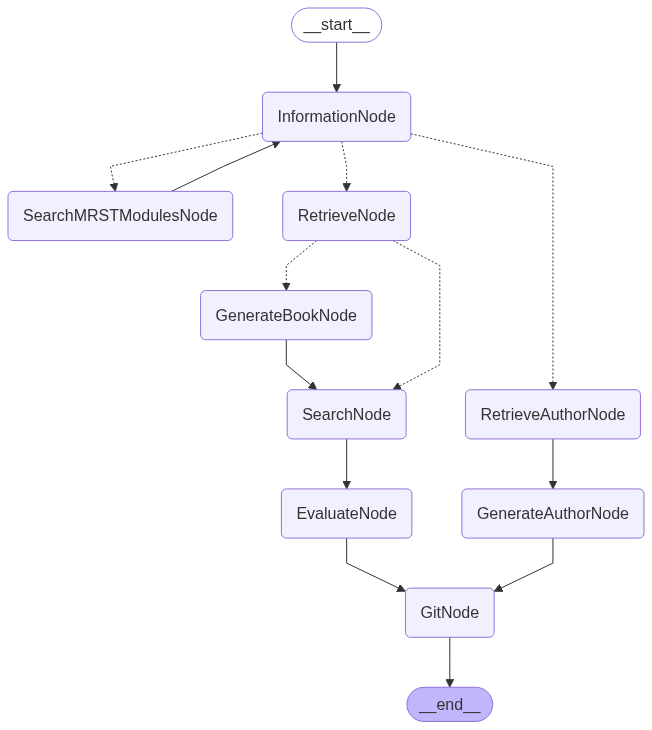
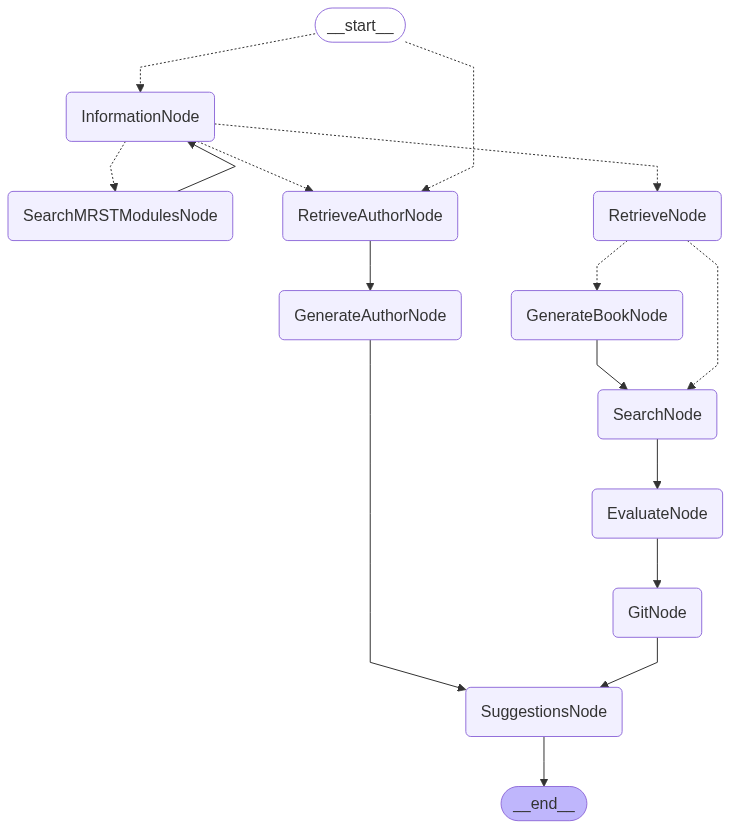
added suggestions

diff --git a/graph.py b/graph.py
@@ -56,35 +56,82 @@ class QueryDescription(BaseModel):
 class CodingKeyWords(BaseModel):
     keywords: List[str] = Field(description = "Key code object names or code words/functions etc based on the provided code.")
 
+class SpecificScore(BaseModel):
+    specific_scores: List[int] = Field(description = "List of specific_score is a number from 1 to 10 defining how specific or general the keywords are related to the scientific field of reservoir simulation. 10 is extremely specific, and 1 is extremely general")
+
+class Authors(BaseModel):
+    authors: List[str] = Field(description = "List of the authors mentioned in the users query. Has to be specifically mentioned by the user!")
+
+"""
+State
+"""
+
 class State(TypedDict):
+    start_node: str
     query: str
     code_query: str
     coding_keywords: List[str]
     query_description : QueryDescriptionWithTools
-    attempts: int
     df: pd.DataFrame
     code_df: pd.DataFrame
     book_response: str
+    author_response: str
+    suggestions: List[str]
     figures: List[Figure]
     tools_calls: List[tuple[str, List[str]]]
     visited_link: str
     chapter_info: tuple[int, str]
+    # These should get removed, only here for debugging puposes
     authors_papers_dict: dict[str, int]
     authors_chunks_dict: dict[str, int]
     authors_total_papers_dict: dict[str, int]
     authors_total_chunks_dict: dict[str, int]
     authors_papers_percentage_dict: dict[str, float]
     authors_chunks_percentage_dict: dict[str, float]
+    #########
     authors_relevance_score: dict[str, float]
     github_authors_relevance_score: dict[str, float]
     sources: set[str]
     cosine_dict: dict[str, tuple[float, float]]
 
-class SpecificScore(BaseModel):
-    specific_scores: List[int] = Field(description = "List of specific_score is a number from 1 to 10 defining how specific or general the keywords are related to the scientific field of reservoir simulation. 10 is extremely specific, and 1 is extremely general")
+"""
+Helper objects
+"""
 
-class Authors(BaseModel):
-    authors: List[str] = Field(description = "List of the authors mentioned in the users query. Has to be specifically mentioned by the user!")
+advanced_section_to_author = {
+    1: ["Runar L. Berge", "Øystein S. Klemetsdal", "Knut-Andreas Lie"],
+    2: ["Mohammed Al Kobaisi", "Wenjuan Zhang"],
+    3: ["Øystein S. Klemetsdal", "Knut-Andreas Lie"],
+    4: ["Knut-Andreas Lie", "Olav Møyner"],
+    5: ["Olav Møyner"],
+    6: ["Olav Møyner"],
+    7: ["Xin Sun", "Knut-Andreas Lie", "Kai Bao"],
+    8: ["Olav Møyner"],
+    9: ["Daniel Wong", "Florian Doster", "Sebastian Geiger"],
+    10: ["Olufemi Olorode", "Bin Wang", "Harun Ur Rashid"],
+    11: ["Rafael March", "Christine Maier", "Florian Doster", "Sebastian Geiger"],
+    12: ["Marine Collignon", "Øystein S. Klemetsdal", "Olav Møyner"],
+    13: ["Jhabriel Varela", "Sarah E. Gasda", "Eirik Keilegavlen", "Jan Martin"],
+    14: ["Odd Andersen"]
+}
+
+introduction_section_to_author = {
+    1: ["Knut-Andreas Lie"],
+    2: ["Knut-Andreas Lie"],
+    3: ["Knut-Andreas Lie"],
+    4: ["Knut-Andreas Lie"],
+    5: ["Knut-Andreas Lie"],
+    6: ["Knut-Andreas Lie"],
+    7: ["Knut-Andreas Lie"],
+    8: ["Knut-Andreas Lie"],
+    9: ["Knut-Andreas Lie"],
+    10: ["Knut-Andreas Lie"],
+    11: ["Knut-Andreas Lie"],
+    12: ["Knut-Andreas Lie"],
+    13: ["Knut-Andreas Lie"],
+    14: ["Knut-Andreas Lie"],
+    15: ["Knut-Andreas Lie"],
+}
 
 """
 Helper functions
@@ -295,32 +342,34 @@ def InformationNode(state: State) -> State:
 
         authors = [a for a in authors if "sintef" not in a.lower()]
 
-        # if len(query) < 500:    # Since we use an expensive model, we only allow smaller prompts into the llm
+        expensive = False
+        if expensive == True:
+            if len(query) < 500:    # Since we use an expensive model, we only allow smaller prompts into the llm
 
-        #     keywords_string = ""
-        #     for k in keywords:
-        #         keywords_string += "-"+k
-        #         keywords_string += "\n"
+                keywords_string = ""
+                for k in keywords:
+                    keywords_string += "-"+k
+                    keywords_string += "\n"
 
-        #     n = len(keywords)
+                n = len(keywords)
 
-        #     sys_msg = f"""You are going to determine how specific these keywords are related to the field of reservoir simulation in relation to the users query.
-        #     For example, keywords like 'reservoir simulation', 'numerical mathematics' should always have a low score like 1 or 2, since they are very general. 
-        #     For example, a keyword like 'chemical enhanced oil recovery' should be very high if the query is 'What can you tell me about chemical eor'
-        #     Generate scores for all keywords, so a total of {n}.
-        #     Query:\n{query}
-            
-        #     Keywords:\n {keywords_string}"""
+                sys_msg = f"""You are going to determine how specific these keywords are related to the field of reservoir simulation in relation to the users query.
+                For example, keywords like 'reservoir simulation', 'numerical mathematics' should always have a low score like 1 or 2, since they are very general. 
+                For example, a keyword like 'chemical enhanced oil recovery' should be very high if the query is 'What can you tell me about chemical eor'
+                Generate scores for all keywords, so a total of {n}.
+                Query:\n{query}
+                
+                Keywords:\n {keywords_string}"""
 
-        #     specific_score = []
+                specific_score = []
 
-        #     i = 0
-        #     while len(specific_score) != n and i<3:
-        #         i+=1
-        #         specific_score = beast_client.with_structured_output(SpecificScore).invoke([{"role": "system", "content": sys_msg}]).specific_scores
+                i = 0
+                while len(specific_score) != n and i<3:
+                    i+=1
+                    specific_score = beast_client.with_structured_output(SpecificScore).invoke([{"role": "system", "content": sys_msg}]).specific_scores
 
-        #     if i < 3:
-        #         keywords = [keywords[j] for j in range(n) if specific_score[j]>6]
+                if i < 3:
+                    keywords = [keywords[j] for j in range(n) if specific_score[j]>6]
 
         query_description = QueryDescriptionWithTools(keywords=keywords, problem_description=problem_description, authors=authors, tools=False, tools_input="")
         return {"query_description": query_description}
@@ -450,9 +499,9 @@ def GenerateAuthorNode(state: State) -> State:
     msg = [{"role": "system", "content": "You are the Generator in RAG application. "+
         "You are going to answer the users query, based on the context given. If there are multiple researchers mentioned in the users query, "+
         "answer the query seperately for each researcher. "+
-        "The context given is titles of retrieved documents, and their respective authors. "+
+        "The context given is titles of chapters in the 'Advanced Book', and their respective authors. "+
         "\n Context:\n" + context}, {"role": "user", "content": query}]
-    return {"book_response": weak_client.invoke(msg).content}
+    return {"author_response": weak_client.invoke(msg).content}
 
 def SearchNode(state: State) -> State:
     df = pd.read_pickle('datasets/folk_ntnu_embeddings.pkl')
@@ -591,9 +640,22 @@ def GitNode(state: State) -> State:
 
     return {"code_df": sorted_df, "coding_keywords": coding_keywords, "github_authors_relevance_score": total_freq_dict}
 
+def SuggestionsNode(state: State) -> State:
+    chapter_info = state.get('chapter_info')
+    suggestions = []
+    if chapter_info != None:
+        for c, b in chapter_info:
+            if b == "Advanced Book":
+                suggestions.extend(advanced_section_to_author.get(c))
+            else:
+                suggestions.extend(introduction_section_to_author.get(c))
+    return {"suggestions": suggestions}
+
 """
 Routers
 """
+def StartNodeRouter(state: State) -> Literal["InformationNode", "RetrieveAuthorNode"]:
+    return state.get('start_node')
 
 def RetrievalRouter(state: State) -> Literal["SearchMRSTModulesNode","RetrieveNode","RetrieveAuthorNode"]:
     queryDescription = state.get('query_description')
@@ -626,8 +688,9 @@ graph_builder.add_node("GenerateAuthorNode", GenerateAuthorNode)
 graph_builder.add_node("SearchNode", SearchNode)
 graph_builder.add_node("EvaluateNode", EvaluateNode)
 graph_builder.add_node("GitNode", GitNode)
+graph_builder.add_node("SuggestionsNode", SuggestionsNode)
 
-graph_builder.add_edge(START, "InformationNode")
+graph_builder.add_conditional_edges(START, StartNodeRouter, {"InformationNode": "InformationNode", "RetrieveAuthorNode": "RetrieveAuthorNode"})
 graph_builder.add_conditional_edges("InformationNode", RetrievalRouter, {"SearchMRSTModulesNode": "SearchMRSTModulesNode", "RetrieveNode": "RetrieveNode", "RetrieveAuthorNode": "RetrieveAuthorNode"})
 graph_builder.add_conditional_edges("RetrieveNode", BookRouter, {"GenerateBookNode":"GenerateBookNode", "SearchNode":"SearchNode"})
 graph_builder.add_edge("SearchMRSTModulesNode", "InformationNode")
@@ -635,8 +698,9 @@ graph_builder.add_edge("RetrieveAuthorNode", "GenerateAuthorNode")
 graph_builder.add_edge("GenerateBookNode", "SearchNode")
 graph_builder.add_edge("SearchNode", "EvaluateNode")
 graph_builder.add_edge("EvaluateNode", "GitNode")
-graph_builder.add_edge("GenerateAuthorNode", "GitNode")
-graph_builder.add_edge("GitNode", END)
+graph_builder.add_edge("GenerateAuthorNode", "SuggestionsNode")
+graph_builder.add_edge("GitNode", "SuggestionsNode")
+graph_builder.add_edge("SuggestionsNode", END)
 
 graph = graph_builder.compile()
 graph.get_graph().draw_mermaid_png(output_file_path='graph_vizualization.png')

diff --git a/app.py b/app.py
@@ -34,6 +34,12 @@ if "authors" not in st.session_state:
 if "github_authors" not in st.session_state:
     st.session_state.github_authors = []
 
+if "suggestions" not in st.session_state:
+    st.session_state.suggestions = []
+
+if "auto_query" not in st.session_state:
+    st.session_state.auto_query = ""
+
 st.markdown("#### Hi, I am an assistant made by SINTEF for the Matlab Reservoir Simulation Toolbox. I can assist you by guiding you to which MRST developers you should contact based on your specific problem, and where in the MRST textbooks you might be able to get help regarding your problem.")
 
 query, code_query, button = st.columns([6,6,1])
@@ -46,51 +52,70 @@ from graph import *
 import io
 
 def run_graph():
+    response_area.text("Generating answer...")
     query = st.session_state.query
     code_query = st.session_state.code_query
-    response_area.text("Generating answer...")
+    auto_query = st.session_state.auto_query
+    st.session_state.auto_query = None
 
-    state = graph.invoke(State(query = query, code_query=code_query))
+    if auto_query == None:
+        auto_query = ""
 
-    total_response = ""
+    if query != "" or code_query != "" or auto_query != "":
+        if auto_query != "":
+            state = graph.invoke(State(query = "Give me a brief summary of what work " + auto_query + " does", code_query= "", query_description = QueryDescriptionWithTools(keywords = [], authors=[auto_query], problem_description="", tools=False, tools_input=""), start_node="RetrieveAuthorNode"))
+        else:
+            state = graph.invoke(State(query = query, code_query=code_query, start_node="InformationNode"))
 
-    book_response = state.get('book_response')
-    if book_response != None:
-        total_response += "#### Relevant information in the MRST textbooks \n\n"
-        total_response += book_response
+        st.session_state.suggestions = state.get('suggestions')
+        total_response = ""
 
-    authors_relevance_score = state.get('authors_relevance_score')
+        author_response = state.get('author_response')
+        if author_response != None:
+            total_response += f" \n\n#### Relevant information about {", ".join(state.get('query_description').authors)}  \n\n"
+            total_response += author_response
 
-    if len(authors_relevance_score.keys()):
-        authors = sorted(list(zip(authors_relevance_score.keys(), authors_relevance_score.values())), key = lambda x: x[1])
-        total_n_authors = len(authors)
-        n = min([total_n_authors, 5])
-        st.session_state.authors  = authors[total_n_authors-n:][::-1] if total_n_authors else []
+        book_response = state.get('book_response')
+        if book_response != None:
+            total_response += "\n\n#### Relevant information in the MRST textbooks \n\n"
+            total_response += book_response
 
-    github_authors_relevance_score = state.get('github_authors_relevance_score')
-    if len(github_authors_relevance_score.keys()):
-        authors = sorted(list(zip(github_authors_relevance_score.keys(), github_authors_relevance_score.values())), key = lambda x: x[1])
-        total_n_authors = len(authors)
-        n = min([total_n_authors, 5])
-        st.session_state.github_authors  = authors[total_n_authors-n:][::-1] if total_n_authors else []
+        authors_relevance_score = state.get('authors_relevance_score')
+        if authors_relevance_score != None: 
+            if len(authors_relevance_score.keys()):
+                authors = sorted(list(zip(authors_relevance_score.keys(), authors_relevance_score.values())), key = lambda x: x[1])
+                total_n_authors = len(authors)
+                n = min([total_n_authors, 5])
+                st.session_state.authors  = authors[total_n_authors-n:][::-1] if total_n_authors else []
+        else:
+            st.session_state.authors = []
 
-    st.session_state.response = total_response
+        github_authors_relevance_score = state.get('github_authors_relevance_score')
+        if github_authors_relevance_score != None:
+            if len(github_authors_relevance_score.keys()):
+                authors = sorted(list(zip(github_authors_relevance_score.keys(), github_authors_relevance_score.values())), key = lambda x: x[1])
+                total_n_authors = len(authors)
+                n = min([total_n_authors, 5])
+                st.session_state.github_authors  = authors[total_n_authors-n:][::-1] if total_n_authors else []
+        else:
+            st.session_state.github_authors = []
 
-    figures = state.get('figures')
-    chapter_info = state.get('chapter_info')
-    images = []
+        st.session_state.response = total_response
 
-    if figures != None:
-        print("Found ", len(figures), " chapters!")
-        for c_info, fig in zip(chapter_info, figures):
+        figures = state.get('figures')
+        chapter_info = state.get('chapter_info')
+        images = []
 
-            buf = io.StringIO()
-            fig.savefig(buf, format = 'svg', facecolor = "#faf9f7")
-            image = buf.getvalue()
-            images.append((c_info, image))
-            buf.close()
+        if figures != None:
+            for c_info, fig in zip(chapter_info, figures):
 
-    st.session_state.figures = images
+                buf = io.StringIO()
+                fig.savefig(buf, format = 'svg', facecolor = "#faf9f7")
+                image = buf.getvalue()
+                images.append((c_info, image))
+                buf.close()
+
+        st.session_state.figures = images
 
 def reset_func():
     st.session_state.query = ""
@@ -146,4 +171,6 @@ with github:
         st.markdown(f'#### {a}')
         st.markdown('With '+ str(s) + ' commits in retrieved folders')
 
-st.pills('Choose next search, generated possibilities', ["First", "Second", "Third"], selection_mode="single")
+if len(st.session_state.suggestions):
+    st.markdown('#### Click on the authors you want to learn more about these authors')
+    st.pills(label = 'Find out more about the authors', options = set(st.session_state.suggestions), default = None, selection_mode="single", label_visibility='hidden', key = 'auto_query', on_change=run_graph)

diff --git a/generate_book_dataset/chapters_to_authors.py b/generate_book_dataset/chapters_to_authors.py
@@ -1,0 +1,34 @@
+advanced_section_to_author = {
+    1: ["Runar L. Berge", "Øystein S. Klemetsdal", "Knut-Andreas Lie"],
+    2: ["Mohammed Al Kobaisi", "Wenjuan Zhang"],
+    3: ["Øystein S. Klemetsdal", "Knut-Andreas Lie"],
+    4: ["Knut-Andreas Lie", "Olav Møyner"],
+    5: ["Olav Møyner"],
+    6: ["Olav Møyner"],
+    7: ["Xin Sun", "Knut-Andreas Lie", "Kai Bao"],
+    8: ["Olav Møyner"],
+    9: ["Daniel Wong", "Florian Doster", "Sebastian Geiger"],
+    10: ["Olufemi Olorode", "Bin Wang", "Harun Ur Rashid"],
+    11: ["Rafael March", "Christine Maier", "Florian Doster", "Sebastian Geiger"],
+    12: ["Marine Collignon", "Øystein S. Klemetsdal", "Olav Møyner"],
+    13: ["Jhabriel Varela", "Sarah E. Gasda", "Eirik Keilegavlen", "Jan Martin"],
+    14: ["Odd Andersen"]
+}
+
+introduction_section_to_author = {
+    1: ["Knut-Andreas Lie"],
+    2: ["Knut-Andreas Lie"],
+    3: ["Knut-Andreas Lie"],
+    4: ["Knut-Andreas Lie"],
+    5: ["Knut-Andreas Lie"],
+    6: ["Knut-Andreas Lie"],
+    7: ["Knut-Andreas Lie"],
+    8: ["Knut-Andreas Lie"],
+    9: ["Knut-Andreas Lie"],
+    10: ["Knut-Andreas Lie"],
+    11: ["Knut-Andreas Lie"],
+    12: ["Knut-Andreas Lie"],
+    13: ["Knut-Andreas Lie"],
+    14: ["Knut-Andreas Lie"],
+    15: ["Knut-Andreas Lie"],
+}
